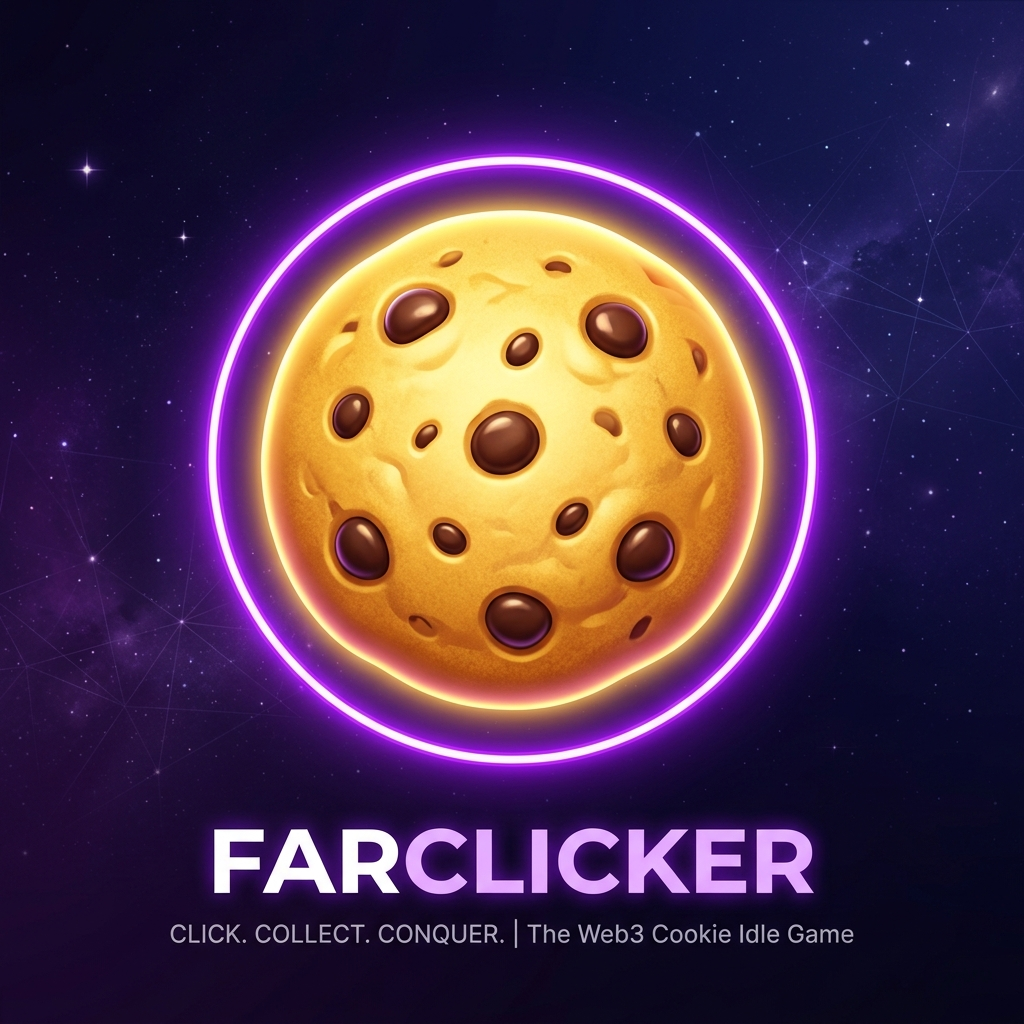
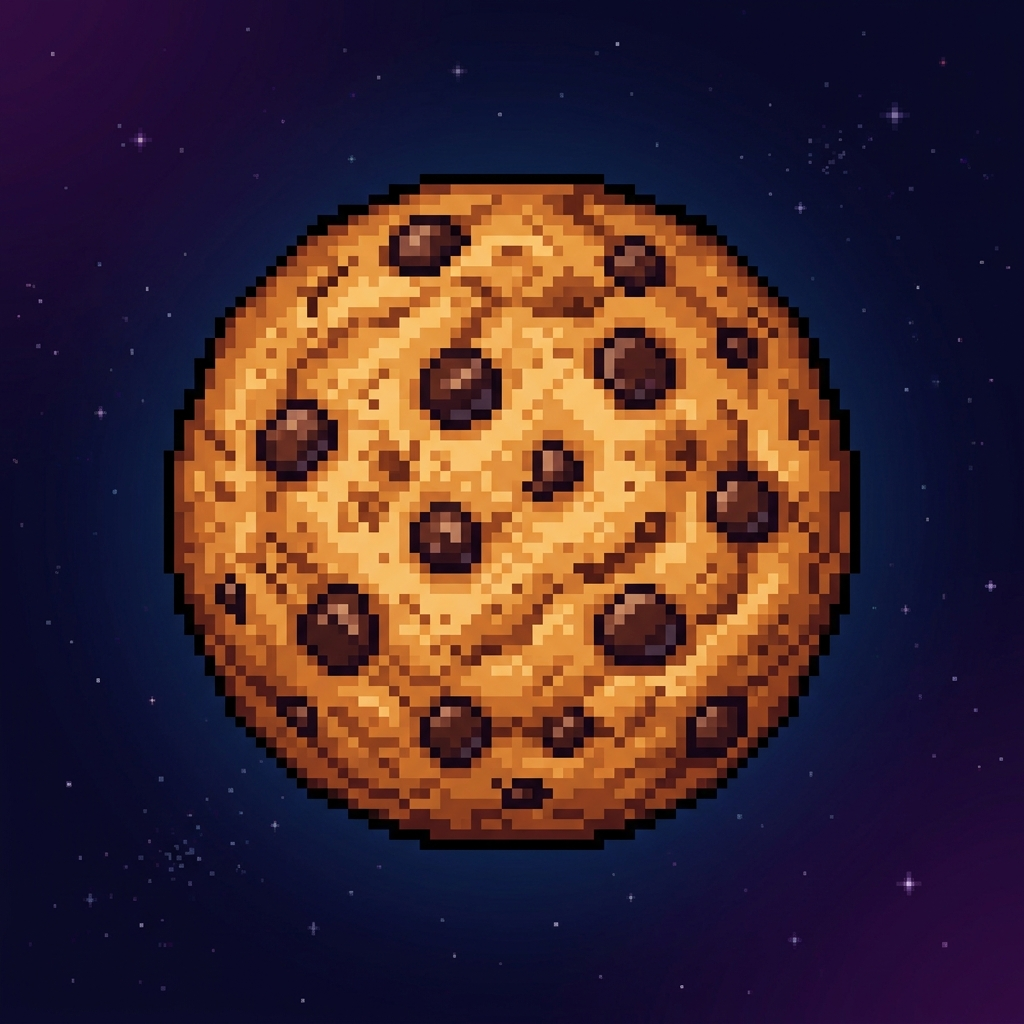
feat: pixel art og image, change button name

diff --git a/cookie-clicker/index.html b/cookie-clicker/index.html
@@ -6,7 +6,7 @@
     <title>FarClick</title>
 
     <!-- Farcaster Mini App embed: turns a pasted URL into a launchable card in casts. -->
-    <meta name="fc:frame" content='{"version":"1","imageUrl":"https://cookie-clicker-hv5w.vercel.app/og.png","button":{"title":"Bake cookies","action":{"type":"launch_frame","name":"FarClick","url":"https://cookie-clicker-hv5w.vercel.app/","splashImageUrl":"https://cookie-clicker-hv5w.vercel.app/splash.png","splashBackgroundColor":"#080418"}}}' />
+    <meta name="fc:frame" content='{"version":"1","imageUrl":"https://cookie-clicker-hv5w.vercel.app/og.png","button":{"title":"FarClick","action":{"type":"launch_frame","name":"FarClick","url":"https://cookie-clicker-hv5w.vercel.app/","splashImageUrl":"https://cookie-clicker-hv5w.vercel.app/splash.png","splashBackgroundColor":"#080418"}}}' />
     
     <link rel="preconnect" href="https://fonts.googleapis.com">
     <link rel="preconnect" href="https://fonts.gstatic.com" crossorigin>
